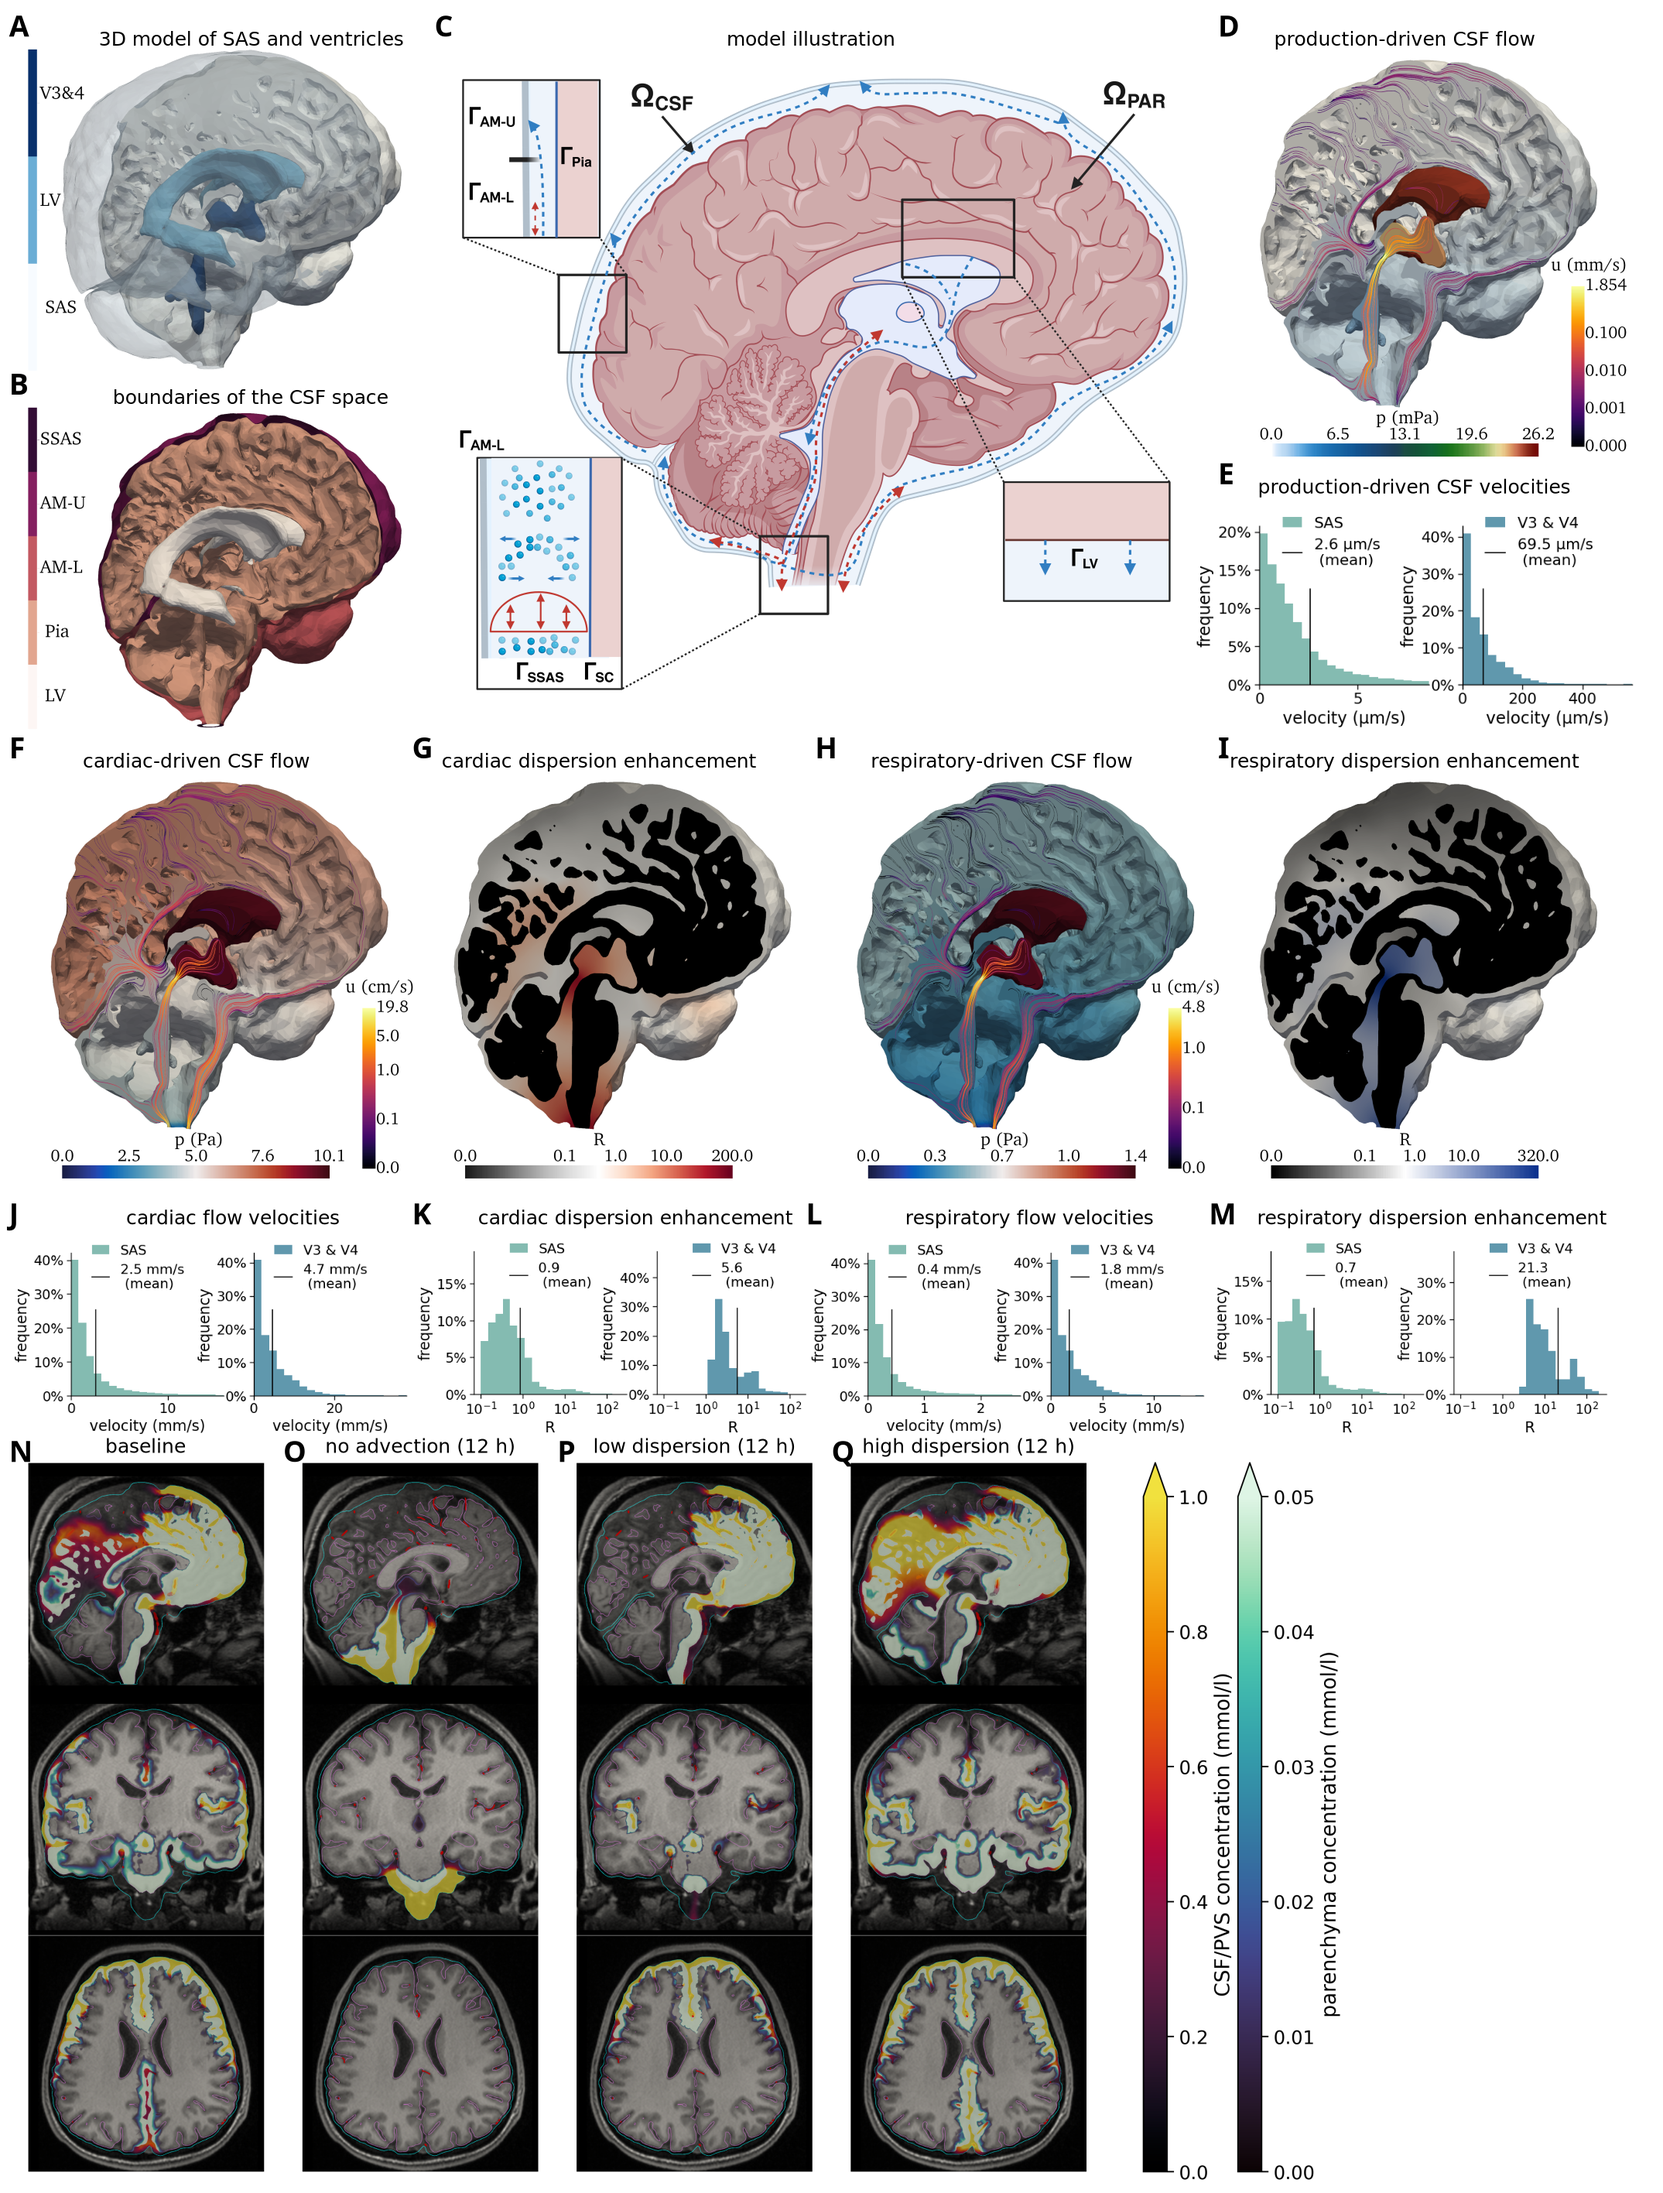
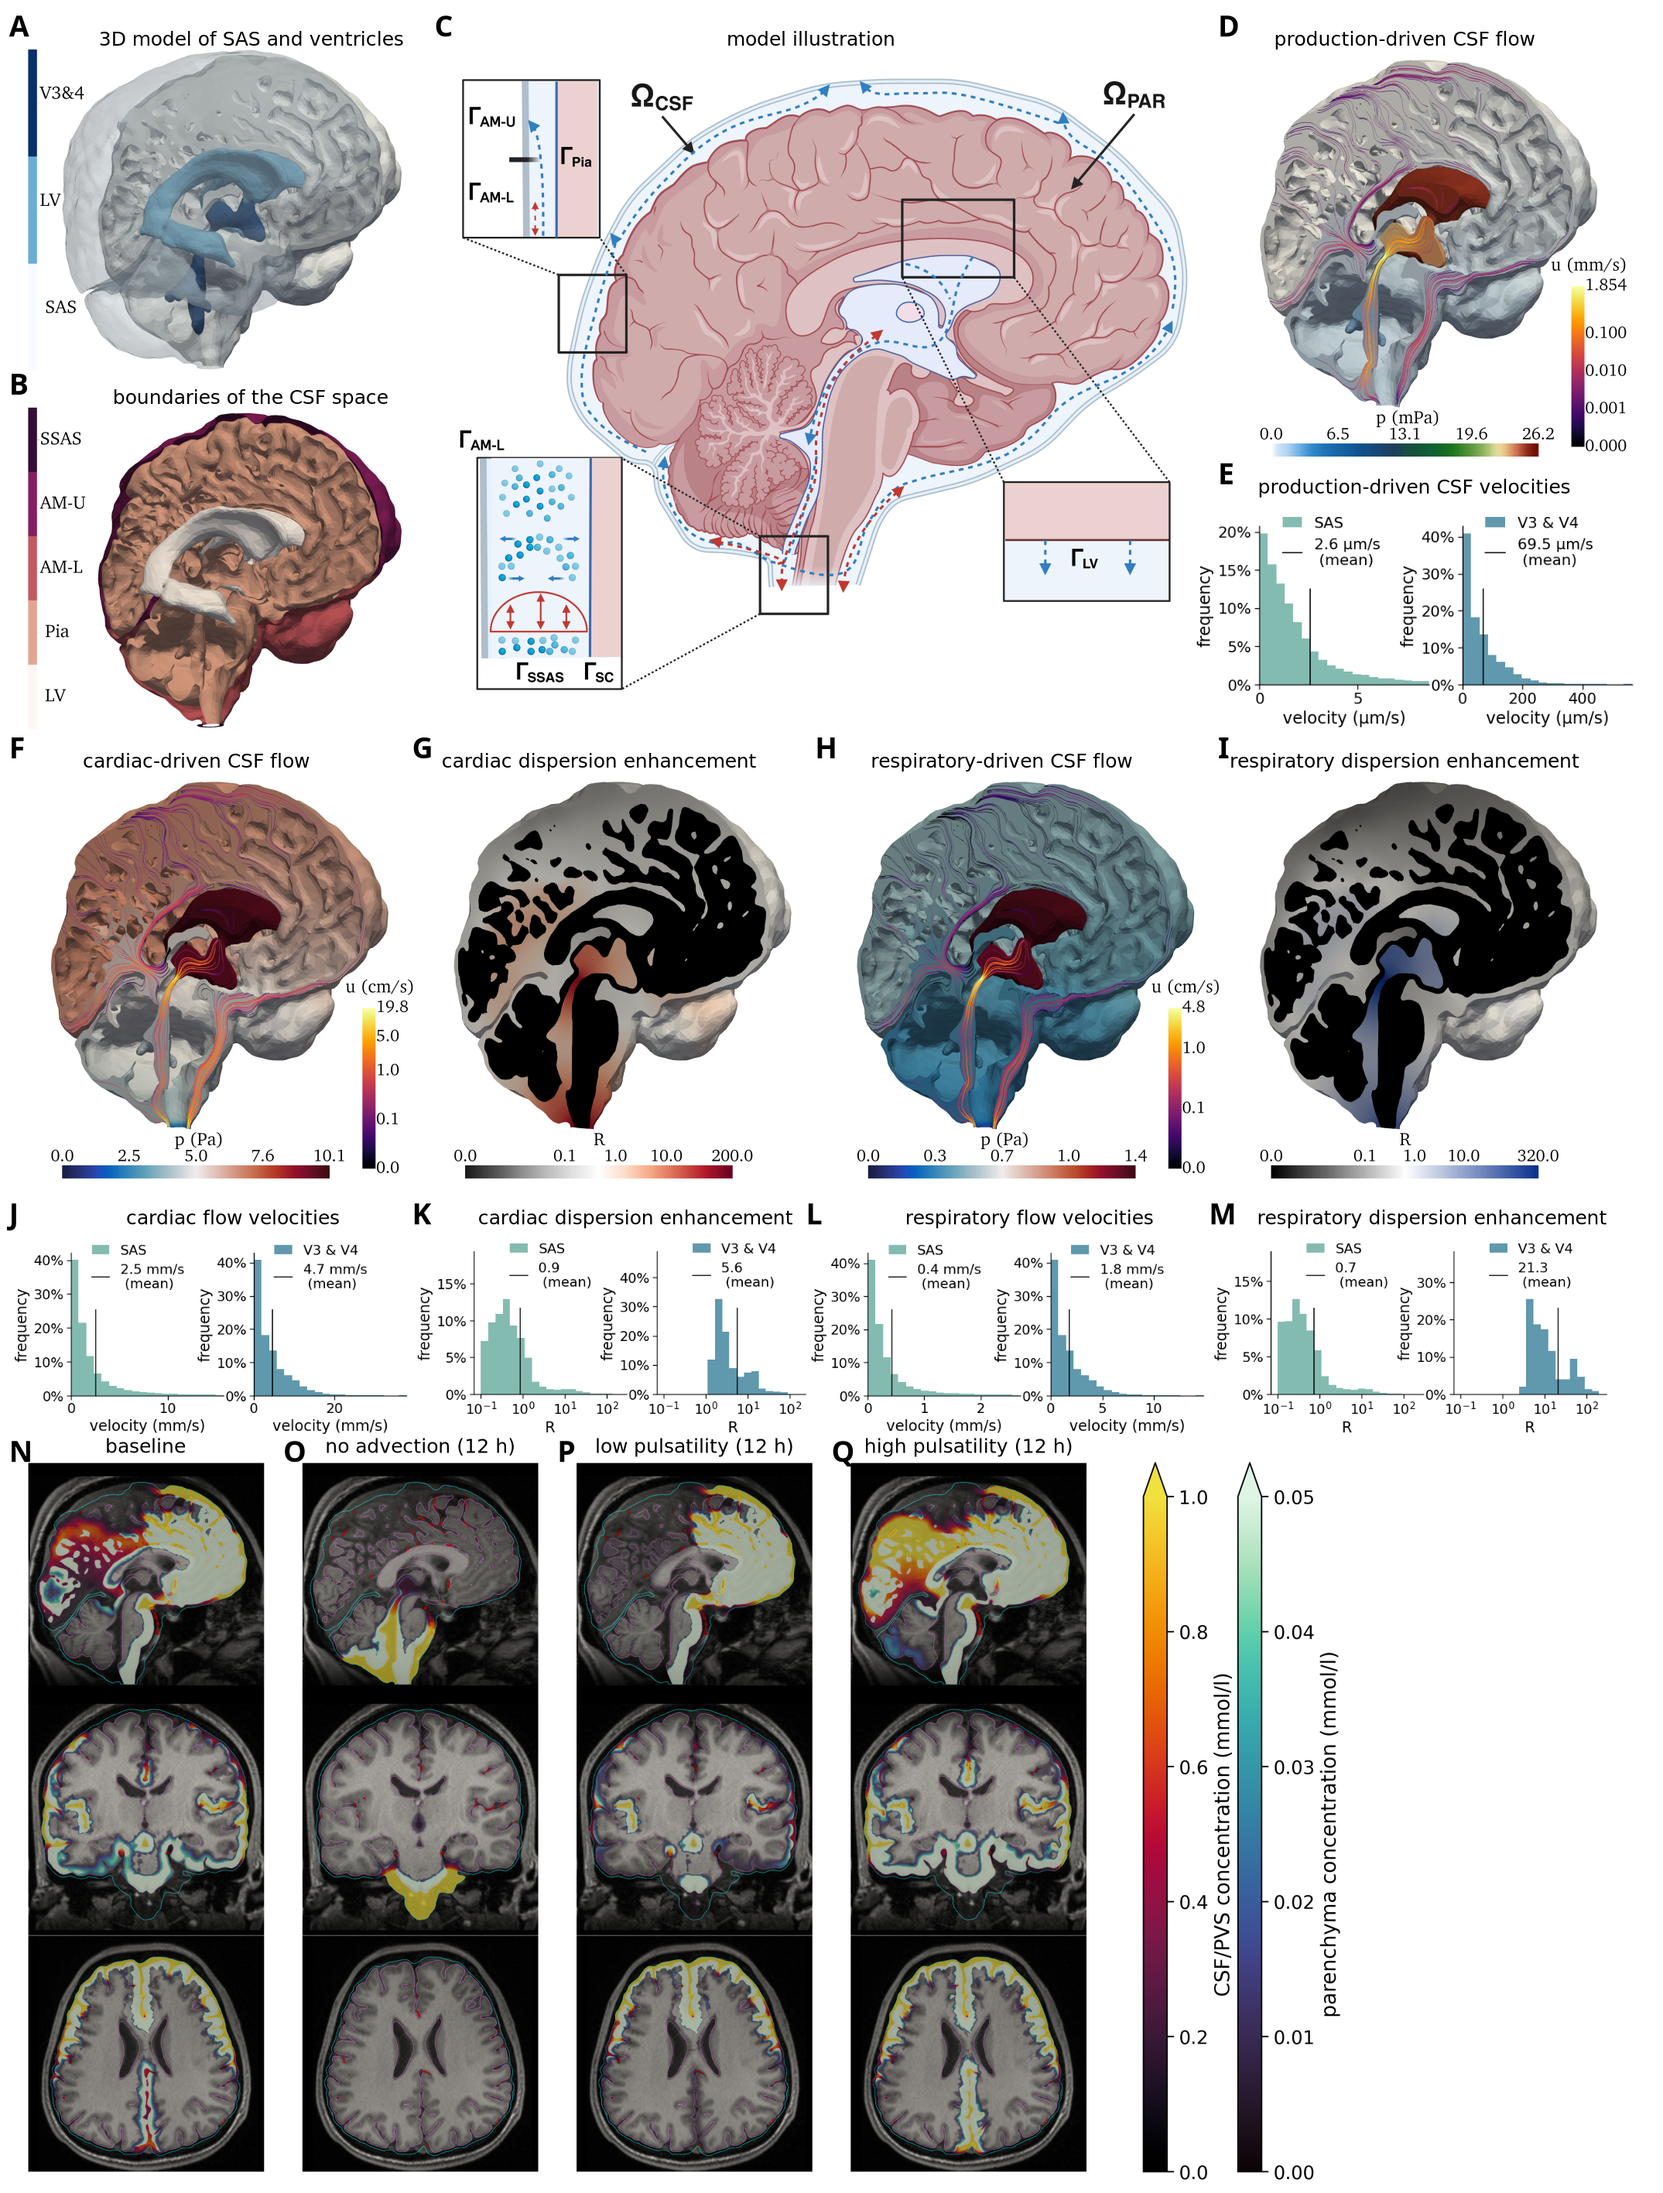
revision I from Marius III

diff --git a/paper/supplementary.tex b/paper/supplementary.tex
@@ -931,7 +931,9 @@ arteries~\cite{asgari2016glymphatic, troyetsky2021dispersion}, to
 5--100 in the spinal subarachnoid space~\cite{stockman2007effect,
   hettiarachchi2011effect, sharp2019dispersion}, and up to more than
 $10\,000$ in surface periarterial spaces~\cite{ray2021quantitative,
-  sharp2019dispersion}. The large variability can (at least partly) be
+  sharp2019dispersion}.
+Additionally, high-resolution MRI measurements by Hirschler et al.~\cite{hirschler2024region} revealed that CSF mobility in regions with high pulsatility is approximately tenfold greater than the self-diffusion of water.
+The large variability can (at least partly) be
 attributed to methodological differences; e.g. different assumptions
 on the medium, domain width, pressure differences and/or fluid
 velocities, the diversity of CSF flow characteristics, as well as a
@@ -943,7 +945,16 @@ enrichment. Our spatially-varying estimates of the dispersion
 enhancement factors $R_c, R_r$ (with $D = (1 + R_c + R_r) D^{\rm
   Gad}$) range from 0 to 200 for the cardiac contribution $R_c$ and 0
 to 320 for the respiratory contribution $R_r$; and is thus compatible
-within the previously reported spectrum.
+within the previously reported spectrum. 
+
+Investigating the link between cardiac pulsatility and the resulting diffusion enhancement factor, we compute for $R$ different levels of cardiac pulsatility. We reduce the inflow boundary conditions of $6\,$ml/s (across the SAS outer surface) and $0.31\,$ml/s (across the lateral ventricle surface) by $25\,\%$, $50\,\%$, $75\,\%$ and $100\,\%$ to model lower cardiac pulsatility, reaveling that $R$ scales quadratically with the reduction of inflow (\cref{fig:R_comparison}). This behaviour directly reflects the nature of our model - the Stokes flow is linear in its boundary conditions, and the diffusion enhancement factor quadratic in the predicted pressure gradient - and simultaneously underscores the substantial role of pulsatility in shaping intracranial transport. 
+
+\begin{figure}
+    \centering
+    \includegraphics[width=1.0\linewidth]{paper/figures/cardiac_R_comparison.png}
+    \caption{Comparison of cardicac-driven diffusion enhancement factors for different levels of cardiac pulsatility. From left to right: The diffusion enhancement factor $R_c$ for $25\,\%$, $50\,\%$, $75\,\%$ and $100\,\%$ of the inflow boundary conditions of $6\,$ml/s and $0.31\,$ml/s across the SAS outer surface and the lateral ventricle surface, respectively.}
+    \label{fig:R_comparison}
+\end{figure}
 
 % Effect of PVS size and shapes
 \paragraph{Shapes, sizes and structures of the PVS}

diff --git a/paper/main.tex b/paper/main.tex
@@ -334,9 +334,8 @@ lower respiratory frequency of $0.25\,$Hz (\Cref{fig:csf}I, M).
 
 Now, to examine how CSF pulsatility affects the tracer enrichment patterns,
 we consider three variations of the baseline: (i) no CSF production,
-(ii) reduced pulsatility and thus decreased dispersion ($0.1 \times
-R$), and (iii) higher pulsatility with increased dispersion ($10
-\times R$). Without CSF production, transport is considerably delayed
+(ii) reduced pulsatility and thus decreased dispersion, and (iii) higher pulsatility with increased dispersion. We computed the reduced and increased pulsatility scenarios by halving and doubling the inflow rates associated with both cardiac and respiratory pulsations, which reduced the dispersion enhancement factors by factor of 0.25 and 4, respectively. Note that behaviour directly reflects the nature of our model: The Stokes flow is linear in its inflow boundary conditions, and the diffusion enhancement factor quadratic in the predicted pressure gradient.
+Without CSF production, transport is considerably delayed
 (\Cref{fig:csf}N, O). Even after $12$ hours, tracer remains in the
 subtentorial regions around the cerebellum, the brain stem and in the
 surrounding CSF. Interestingly, the lack of CSF production instead
